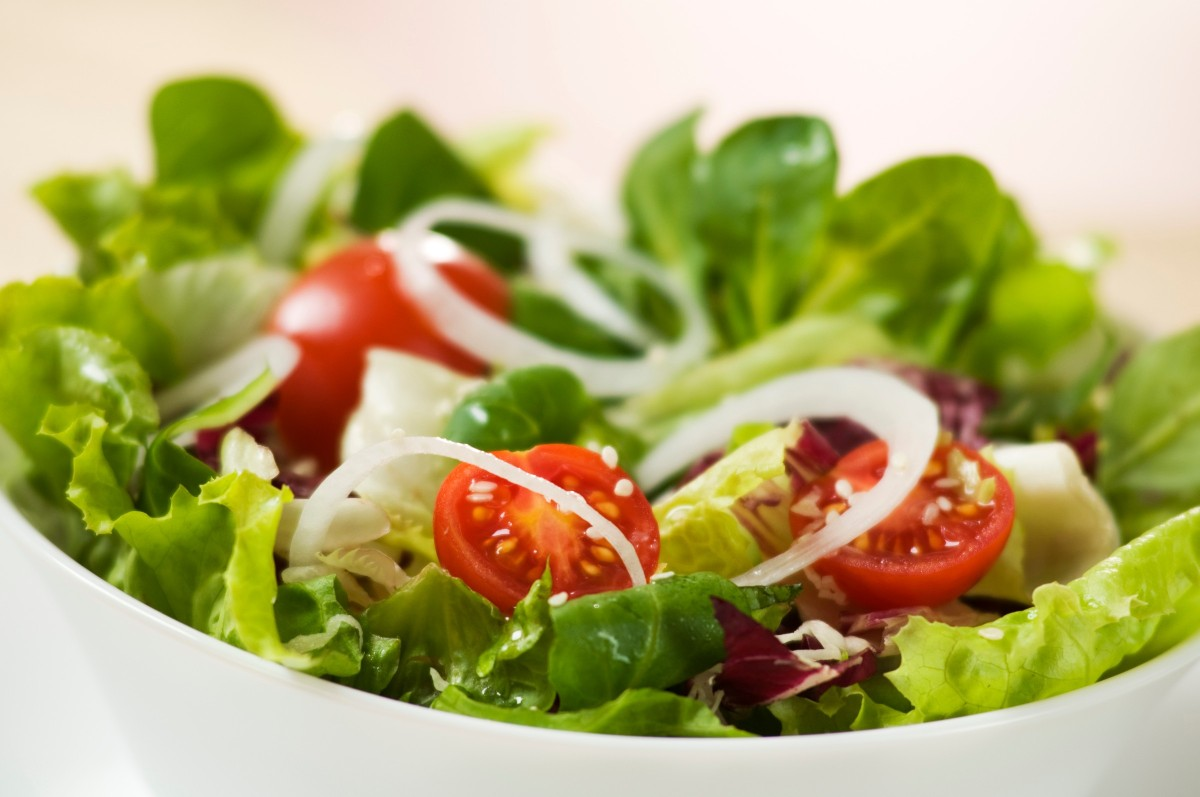
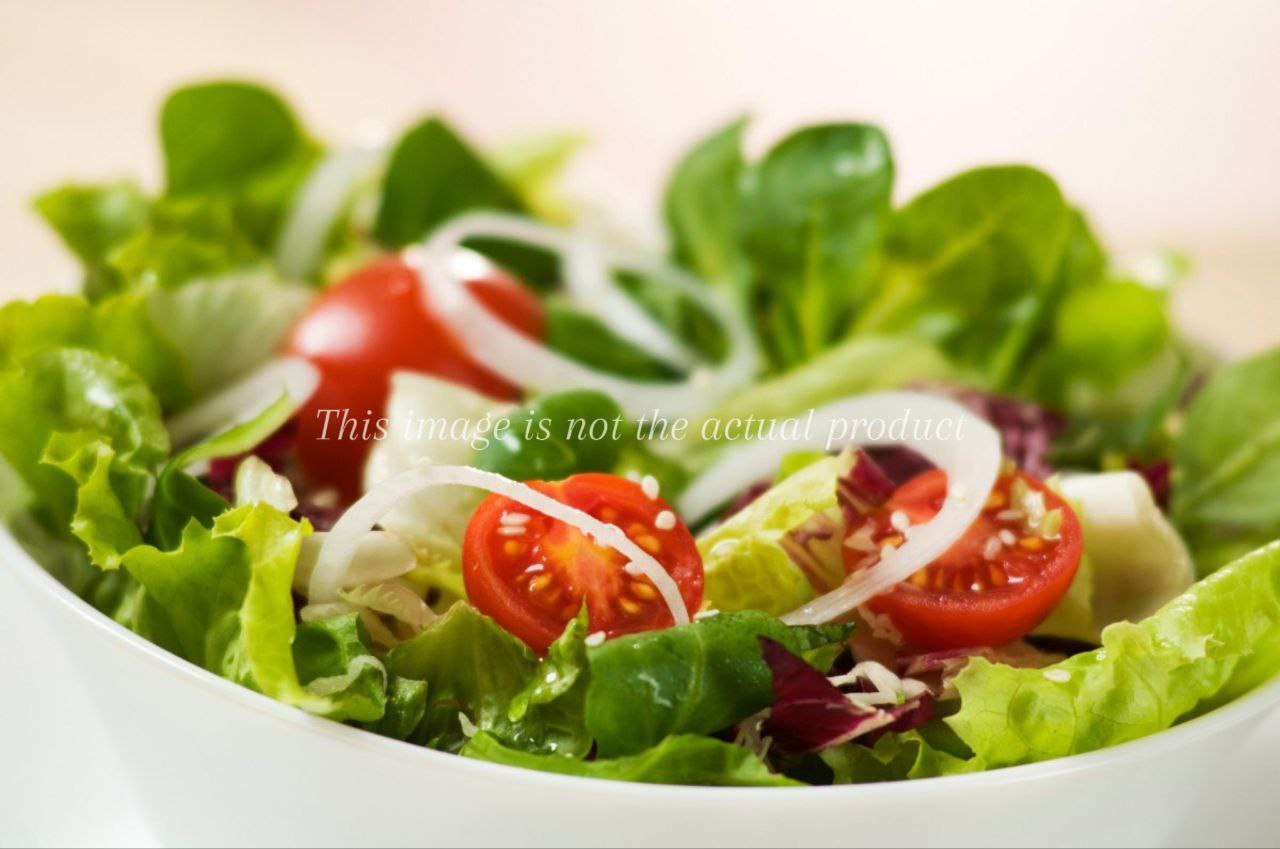
updated menu pictures

diff --git a/app/Views/admin/inventoryproducts.php b/app/Views/admin/inventoryproducts.php
@@ -23,7 +23,7 @@
         <div class="cards">
             <div class="card">
                 <div class="box">
-                    <img src="/assets/images/products/nachos.jpg" alt="appetizer">
+                    <img src="/assets/images/products/nachos2.jpg" alt="appetizer">
                     <div class="container"><br>
                         <a href="/inventoryappetizer" class="btn btn-success btn-sm me-3 text-center">Appetizer</a>
                     </div>
@@ -31,7 +31,7 @@
             </div>
             <div class="card">
                 <div class="box">
-                    <img src="/assets/images/products/spamegg.jpg" alt="meals">
+                    <img src="/assets/images/products/spamegg2.jpg" alt="meals">
                     <div class="container"><br>
                         <a href="/inventorymeal" class="btn btn-success btn-sm me-3 text-center">Breakfast Meals</a>
                     </div>
@@ -59,7 +59,7 @@
         <div class="cards">
             <div class="card">
                 <div class="box">
-                    <img src="/assets/images/products/chickenalfredo.jpg" alt="pasta">
+                    <img src="/assets/images/products/chickenalfredo2.jpg" alt="pasta">
                     <div class="container"><br>
                         <a href="/inventorypasta" class="btn btn-success btn-sm me-3 text-center">Pasta</a>
                     </div>
@@ -67,7 +67,7 @@
             </div>
             <div class="card">
                 <div class="box">
-                    <img src="/assets/images/products/ceasar.jpg" alt="salad">
+                    <img src="/assets/images/products/chickensalad2.jpg" alt="salad">
                     <div class="container"><br>
                         <a href="/inventorysalad" class="btn btn-success btn-sm me-3 text-center">Salad</a>
                     </div>
@@ -96,7 +96,7 @@
             </div>
             <div class="card">
                 <div class="box">
-                    <img src="/assets/images/products/icedamericano.jpg" alt="iced coffee">
+                    <img src="/assets/images/products/icedamericano2.jpg" alt="iced coffee">
                     <div class="container"><br>
                         <a href="/inventoryicedcoffee" class="btn btn-success btn-sm me-3 text-center">Iced Coffee</a>
                     </div>
@@ -124,7 +124,7 @@
         <div class="cards">
             <div class="card">
                 <div class="box">
-                    <img src="/assets/images/products/blueberry.jpg" alt="lemonade" >
+                    <img src="/assets/images/products/lemonade.jpeg" alt="lemonade" >
                     <div class="container"><br>
                         <a href="/inventorylemonade" class="btn btn-success btn-sm me-3 text-center">Lemonade</a>
                     </div>

diff --git a/app/Views/user/home.php b/app/Views/user/home.php
@@ -215,7 +215,7 @@
 							</div>
 							<div class="col-md-6">
 								<div class="menu-entry">
-									<a class="img" style="background-image: url(/assets/images/products/nachos.jpg);"></a>
+									<a class="img" style="background-image: url(/assets/images/products/nachos2.jpg);"></a>
 								</div>
 							</div>
 							<div class="col-md-6">

diff --git a/app/Views/user/mainhome.php b/app/Views/user/mainhome.php
@@ -211,7 +211,7 @@
 							</div>
 							<div class="col-md-6">
 								<div class="menu-entry">
-									<a class="img" style="background-image: url(/assets/images/products/nachos.jpg);"></a>
+									<a class="img" style="background-image: url(/assets/images/products/nachos2.jpg);"></a>
 								</div>
 							</div>
 							<div class="col-md-6">
